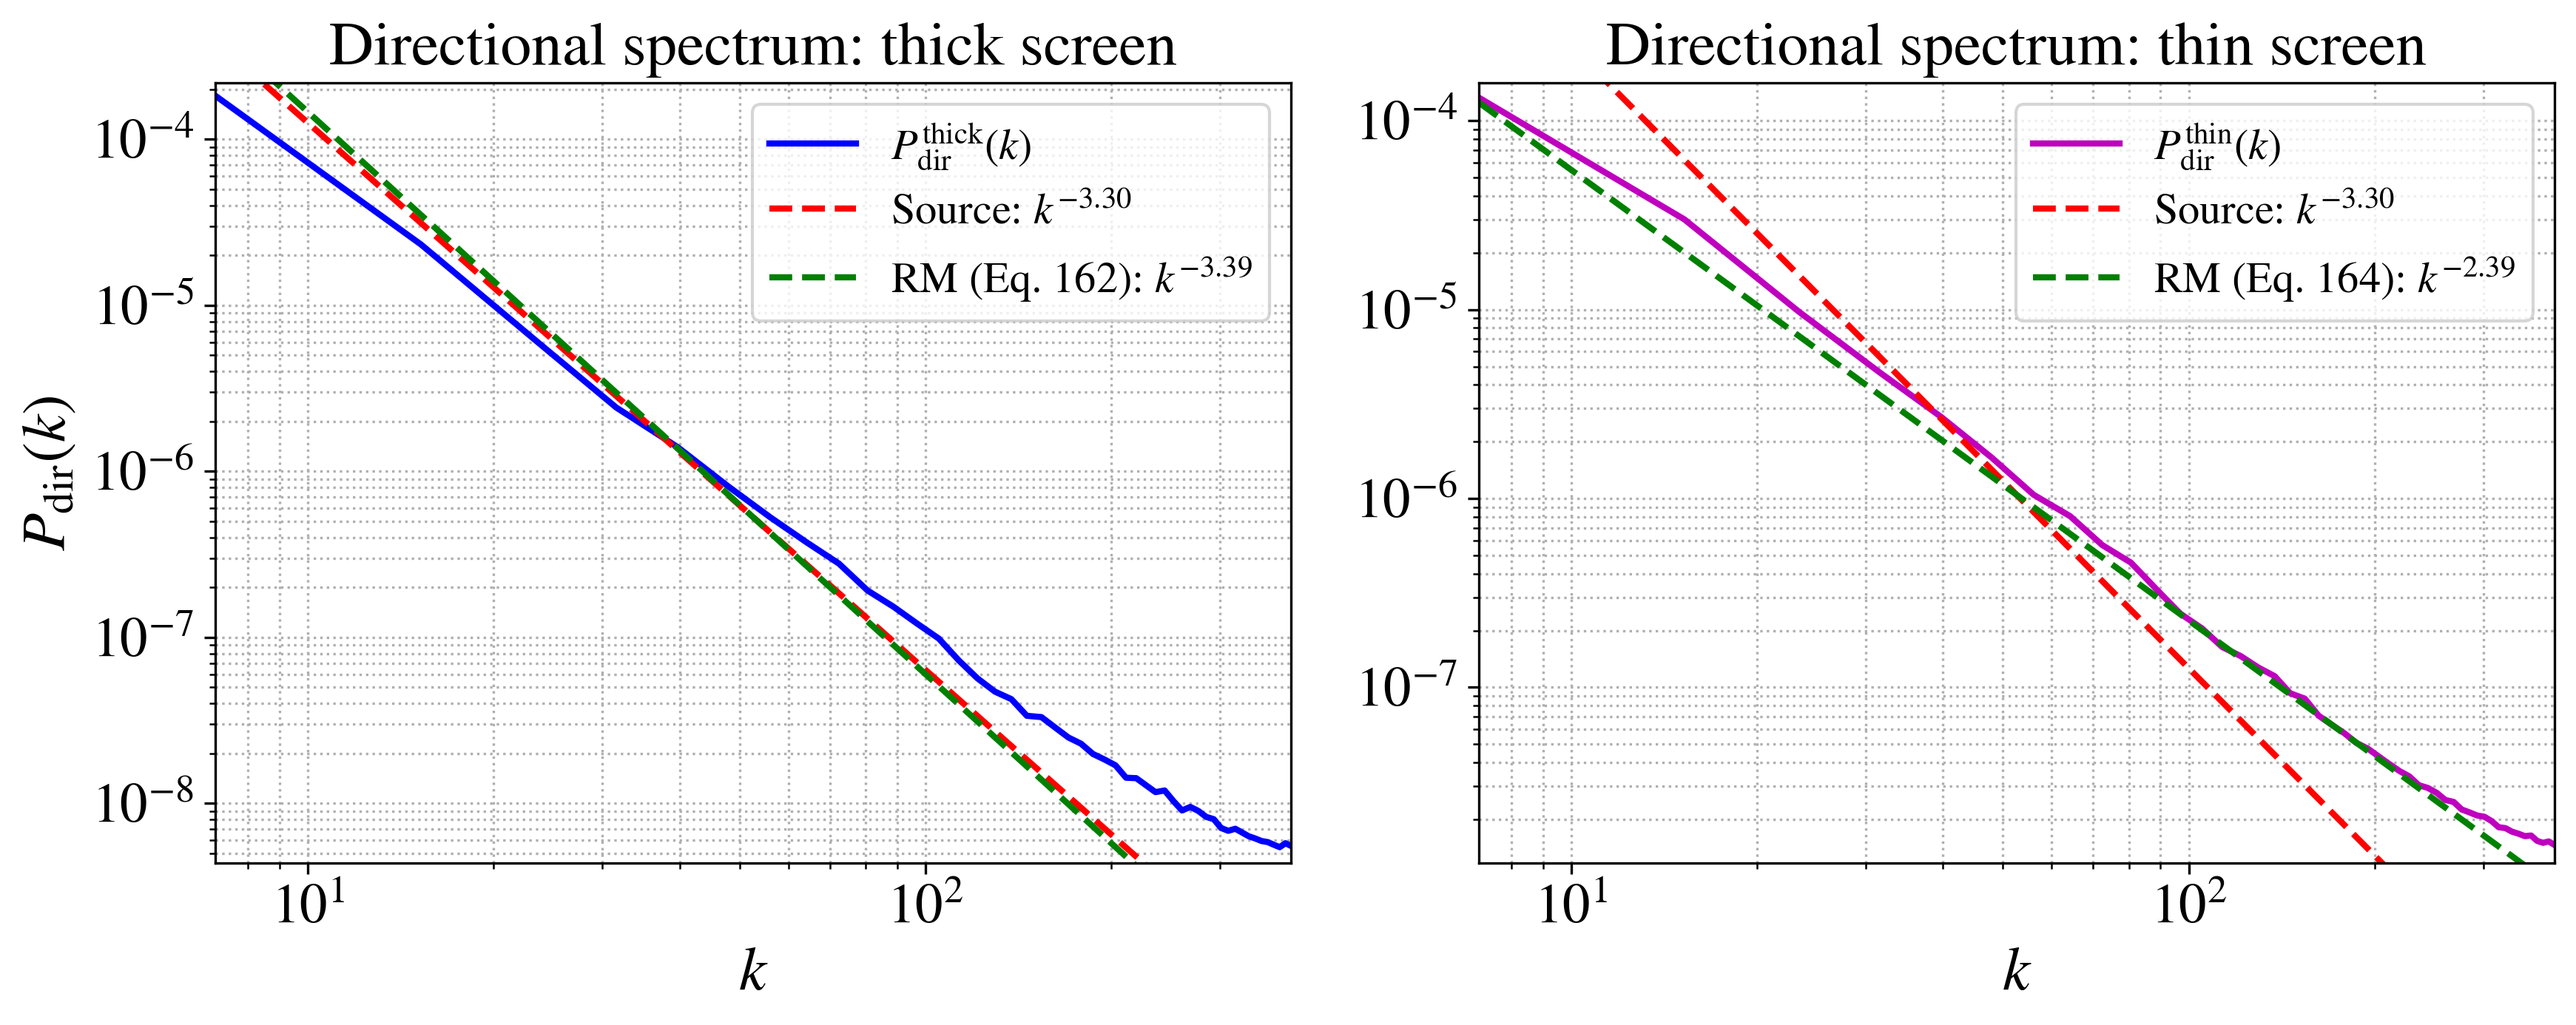
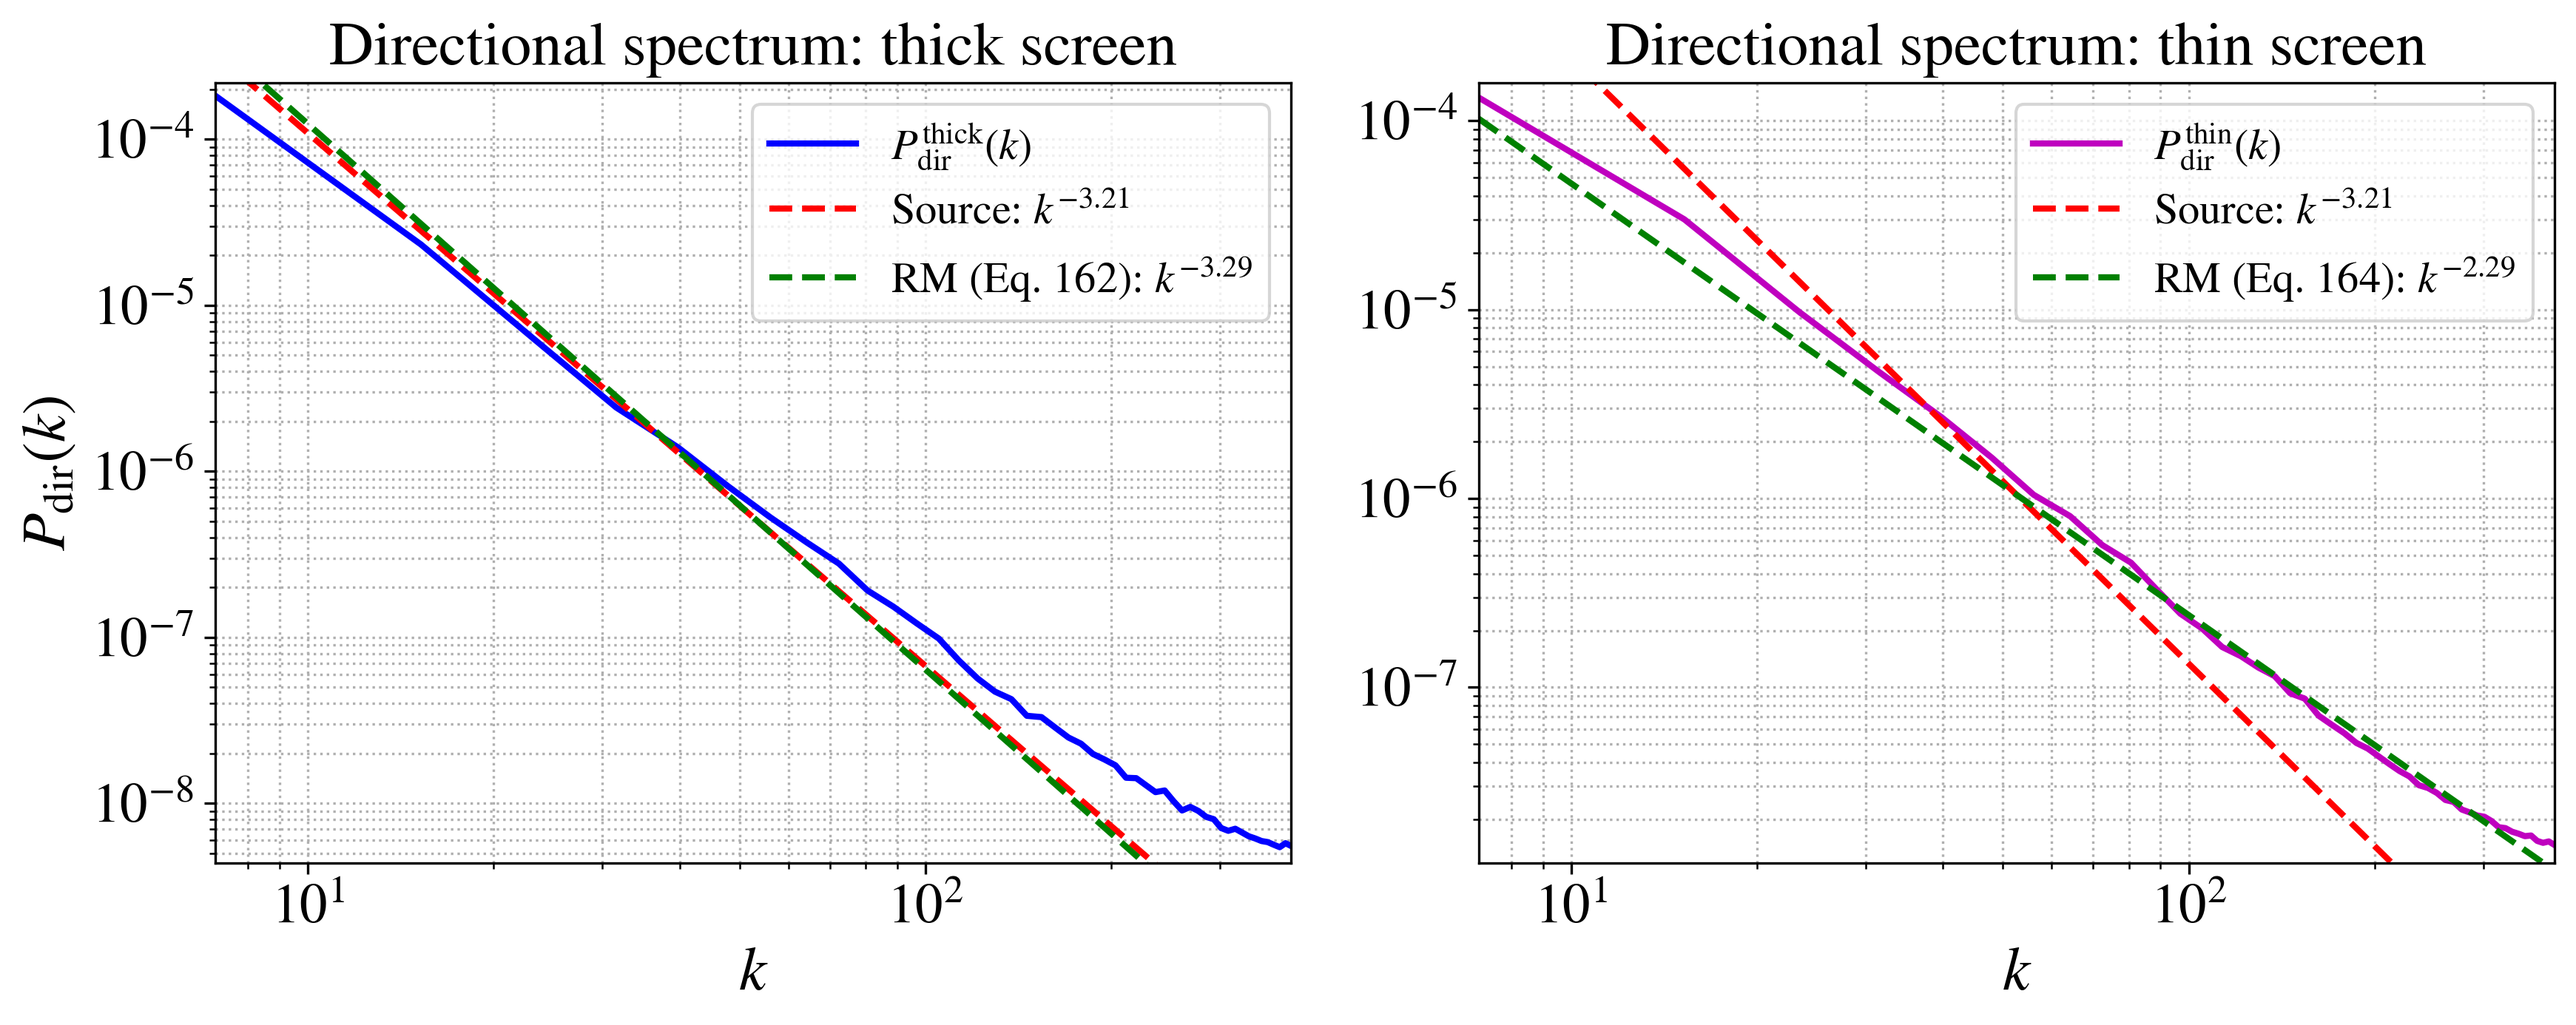
Middle for slope

diff --git a/compare_measures/directional_spectrum/appendix_c/163_165.py b/compare_measures/directional_spectrum/appendix_c/163_165.py
@@ -674,13 +674,21 @@ def validate_lp16_appendixC_theory_overlay(
     Rmax_thin_fit  = 0.5 * r_phi_thin   # ~29 for r_phi_thin ≈ 58
     Rmax_thick_fit = 0.5 * r_phi_thick  # ~60 for r_phi_thick ≈ 120
     
-    print(f"\nFitting ranges for exponents:")
-    print(f"  Thin  screen: R ∈ [{Rmin_global:.1f}, {Rmax_thin_fit:.1f}] pixels  (R < r_phi_thin = {r_phi_thin:.1f})")
-    print(f"  Thick screen: R ∈ [{Rmin_global:.1f}, {Rmax_thick_fit:.1f}] pixels  (R < r_phi_thick = {r_phi_thick:.1f})")
+    # For M_i and alpha_phi fits, use twice larger range (up to r_phi)
+    # Start from R=10 (reduced from left by 2.5x from R=4) to avoid grid effects
+    Rmin_Mi_fit = 10.0
+    Rmin_alpha_fit = 10.0
+    Rmax_Mi_fit = 0.8*r_phi_thick  # Use full range up to r_phi for source SF
+    Rmax_alpha_fit = 0.8*r_phi_thick  # Use full range up to r_phi for Faraday SF
     
-    M_i = fit_powerlaw_slope(r_P, D_P, Rmin_global, Rmax_thick_fit)
+    print(f"\nFitting ranges for exponents:")
+    print(f"  Source M_i:         R ∈ [{Rmin_Mi_fit:.1f}, {Rmax_Mi_fit:.1f}] pixels  (2x range, up to r_phi_thick)")
+    print(f"  Faraday (thick):    R ∈ [{Rmin_alpha_fit:.1f}, {Rmax_alpha_fit:.1f}] pixels  (2x range, up to r_phi_thick)")
+    print(f"  Faraday (thin):    R ∈ [{Rmin_global:.1f}, {Rmax_thin_fit:.1f}] pixels  (R < r_phi_thin = {r_phi_thin:.1f})")
+    
+    M_i = fit_powerlaw_slope(r_P, D_P, Rmin_Mi_fit, Rmax_Mi_fit)
     alpha_phi_thin  = fit_powerlaw_slope(r_Phi_thin,  D_Phi_thin,  Rmin_global, Rmax_thin_fit)
-    alpha_phi_thick = fit_powerlaw_slope(r_Phi_thick, D_Phi_thick, Rmin_global, Rmax_thick_fit)
+    alpha_phi_thick = fit_powerlaw_slope(r_Phi_thick, D_Phi_thick, Rmin_alpha_fit, Rmax_alpha_fit)
     
     # Use thick screen measurement (larger fitting range) as primary, but report both
     alpha_phi = alpha_phi_thick
@@ -767,10 +775,10 @@ def validate_lp16_appendixC_theory_overlay(
     # Panel 1: source SF with its measured slope
     ax = ax11
     ax.loglog(r_P, D_P, 'k-', lw=2, label=r'$D_{P_{\mathrm{emit}}}(R)$')
-    rline_src = np.linspace(Rmin_global, Rmax_thick_fit, 100)
-    D0_src = D_P[np.argmin(np.abs(r_P - Rmin_global))]
+    rline_src = np.linspace(Rmin_Mi_fit, Rmax_Mi_fit, 100)
+    D0_src = D_P[np.argmin(np.abs(r_P - Rmin_Mi_fit))]
     ax.loglog(rline_src,
-              D0_src * (rline_src / Rmin_global)**M_i,
+              D0_src * (rline_src / Rmin_Mi_fit)**M_i,
               'r--', lw=2,
               label=fr'$R^{{M_i}}$, $M_i={M_i:.2f}$')
     ax.set_xlim([r_P.min(), r_P.max()])
@@ -784,10 +792,10 @@ def validate_lp16_appendixC_theory_overlay(
     # Panel 2: Faraday SF with its measured exponent
     ax = ax12
     ax.loglog(r_Phi_thick, D_Phi_thick, 'C0-', lw=2, label=r'$D_{\Phi}(R)$ (thick)')
-    rline_phi = np.linspace(Rmin_global, Rmax_thick_fit, 100)
-    D0_phi = D_Phi_thick[np.argmin(np.abs(r_Phi_thick - Rmin_global))]
+    rline_phi = np.linspace(Rmin_alpha_fit, Rmax_alpha_fit, 100)
+    D0_phi = D_Phi_thick[np.argmin(np.abs(r_Phi_thick - Rmin_alpha_fit))]
     ax.loglog(rline_phi,
-              D0_phi * (rline_phi / Rmin_global)**alpha_phi,
+              D0_phi * (rline_phi / Rmin_alpha_fit)**alpha_phi,
               'C3--', lw=2,
               label=fr'$R^{{1+\tilde m_\phi}}$, $R^{{{alpha_phi:.2f}}}$')
     ax.set_xlim([r_Phi_thick.min(), r_Phi_thick.max()])
